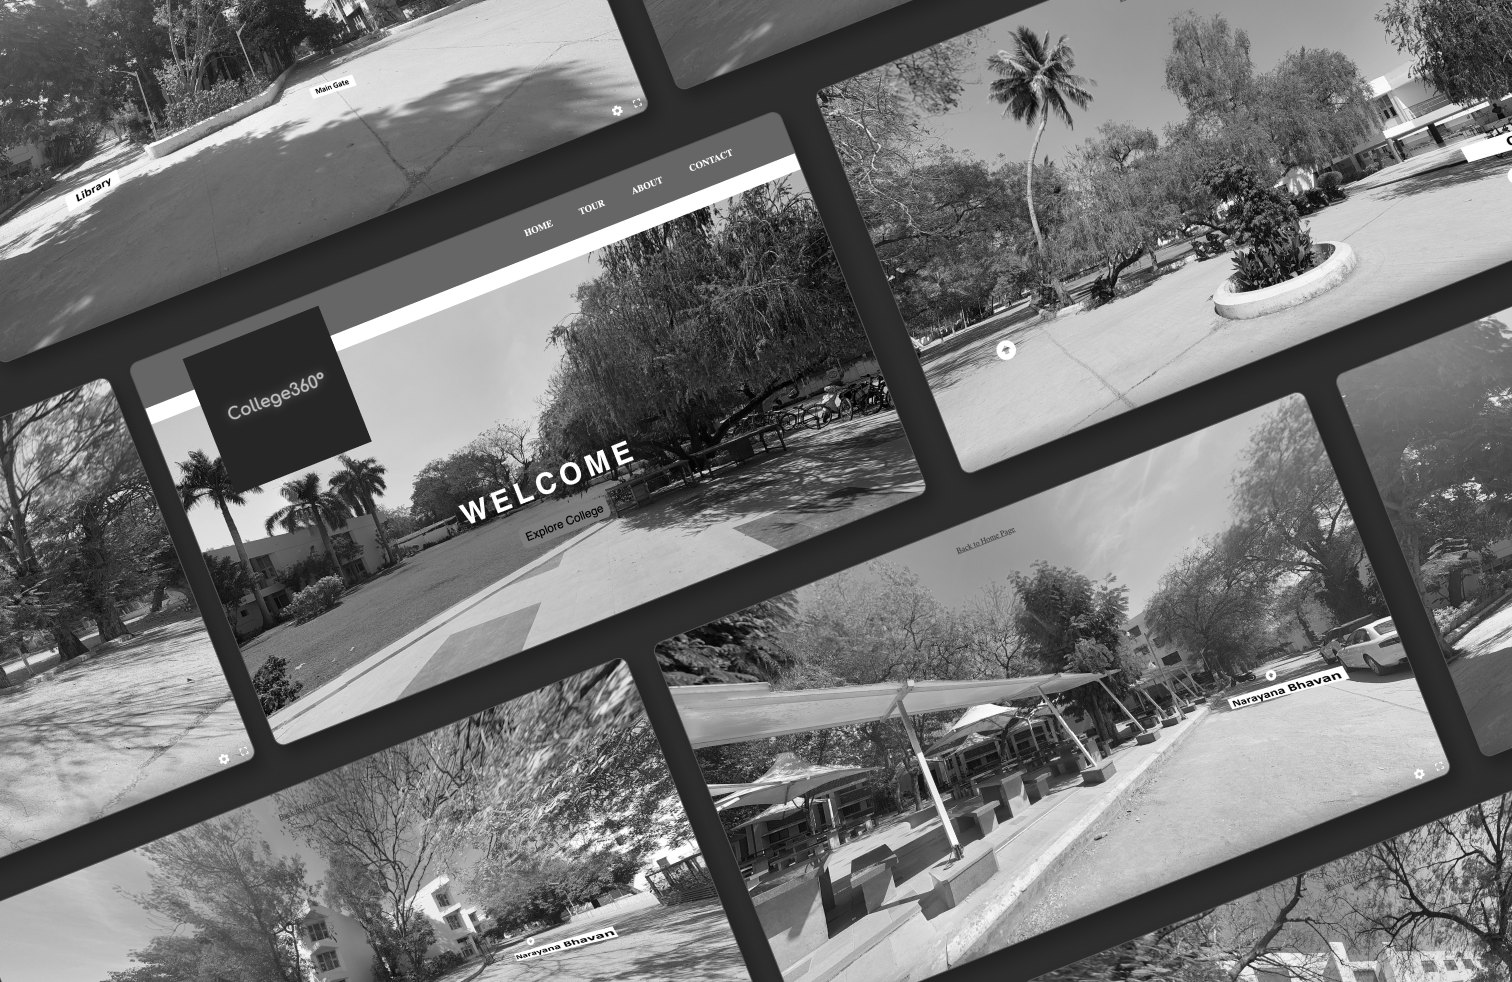
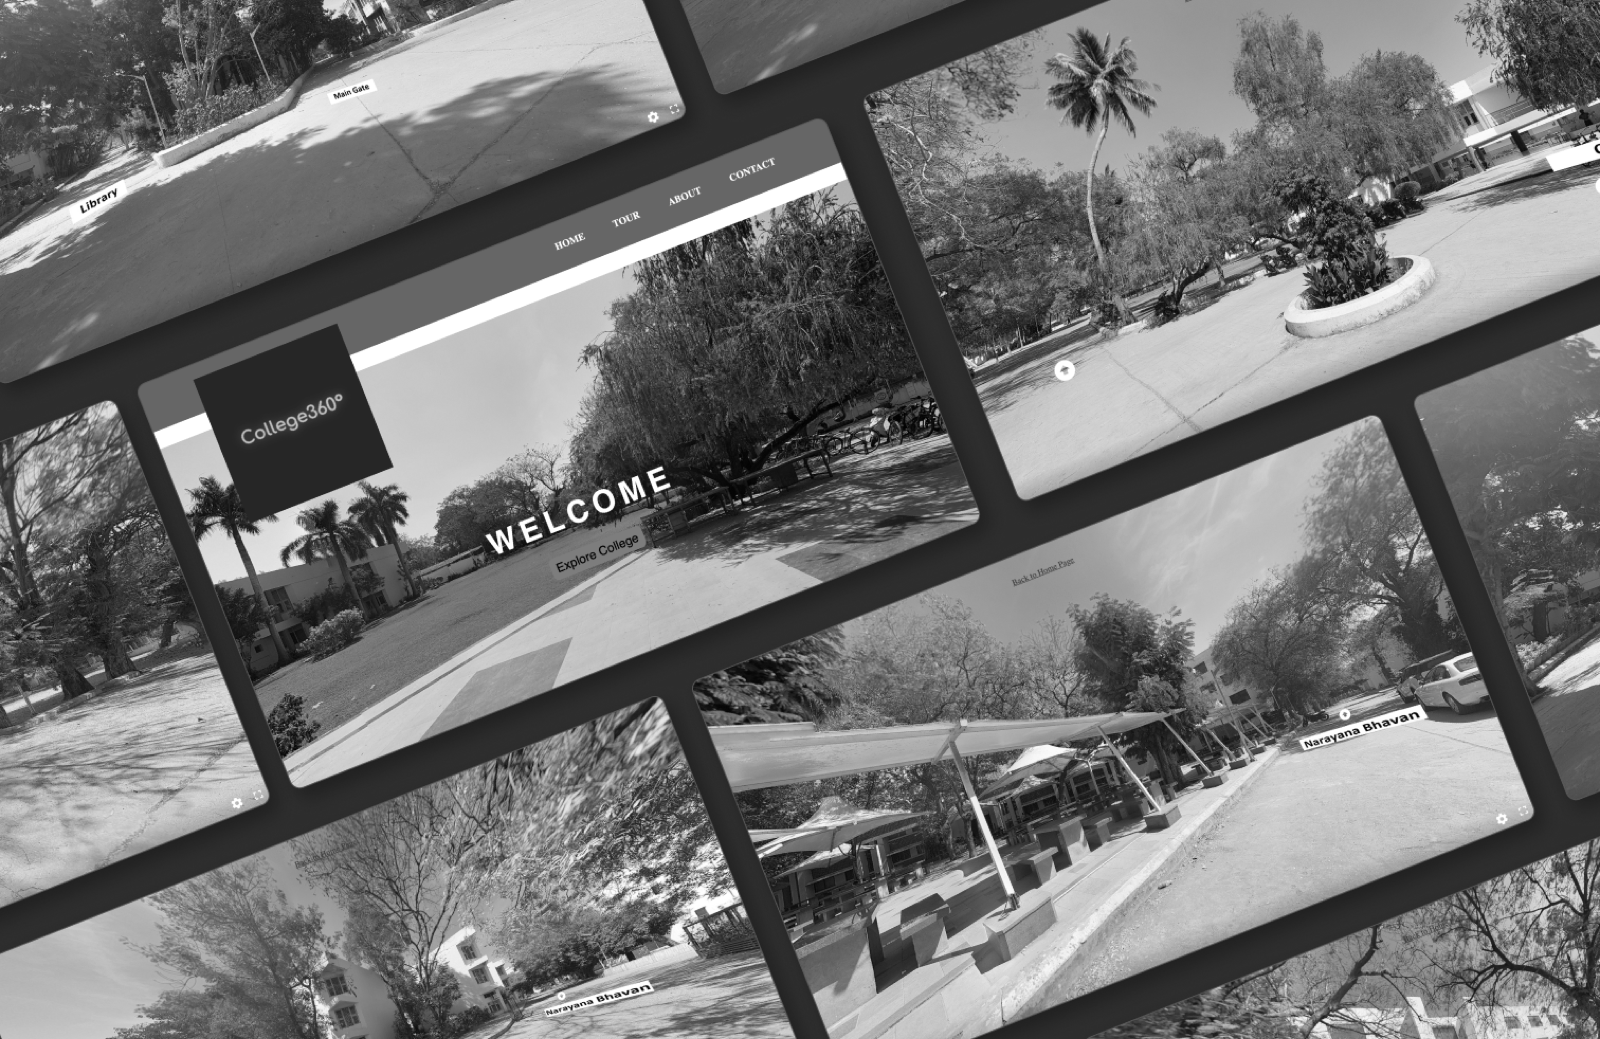
feat: switch Nexchool to image preview mode
Captured the live nexchool.in homepage via headless Chrome and dropped
the optimised screenshot into public/nexchool.png (745 KB, 1600x900).

Then flipped the Nexchool preview in lib/content.js from wordmark mode
to image mode by adding `image: "/nexchool.png"`. The LivePreview
component already supports this — same URL chrome strip on top, real
screenshot now fills the 16:10 frame instead of the designed wordmark.

Also added explicit `alt` attributes to both Nexchool and College360
previews (keyword-rich, helps image SEO):
  - Nexchool: "Nexchool marketing site — school management SaaS
              platform for institutions"
  - College360: "College360 — 3D virtual campus tour of Dharmsinh
                 Desai University, DUHACKS 2.0 award winner"

College360.png was also resized to 1600 wide to match (was 2878 wide).

Both visible product surfaces in the Selected Work section now show
real artifacts instead of designed cards. Stage 1 (Context) for both
projects is no longer empty on the right side.

Build: clean. Bundle: 59.0 kB (no JS change — assets are static).

diff --git a/lib/content.js b/lib/content.js
@@ -83,9 +83,10 @@ export const PROJECTS = [
     stack: ["Next.js", "TypeScript", "PostgreSQL", "REST", "Auth"],
     preview: {
       url: "https://nexchool.in",
+      image: "/nexchool.png",
       title: "Nexchool",
-      tagline: "School management, built for the institutions that actually run schools.",
       label: "LIVE MARKETING SITE",
+      alt: "Nexchool marketing site — school management SaaS platform for institutions",
     },
     links: { live: "https://nexchool.in" },
   },
@@ -109,6 +110,7 @@ export const PROJECTS = [
       image: "/college360.png",
       title: "College360",
       label: "LIVE PROJECT",
+      alt: "College360 — 3D virtual campus tour of Dharmsinh Desai University, DUHACKS 2.0 award winner",
     },
     links: {
       repo: "https://github.com/sahilsapariya/college360",
